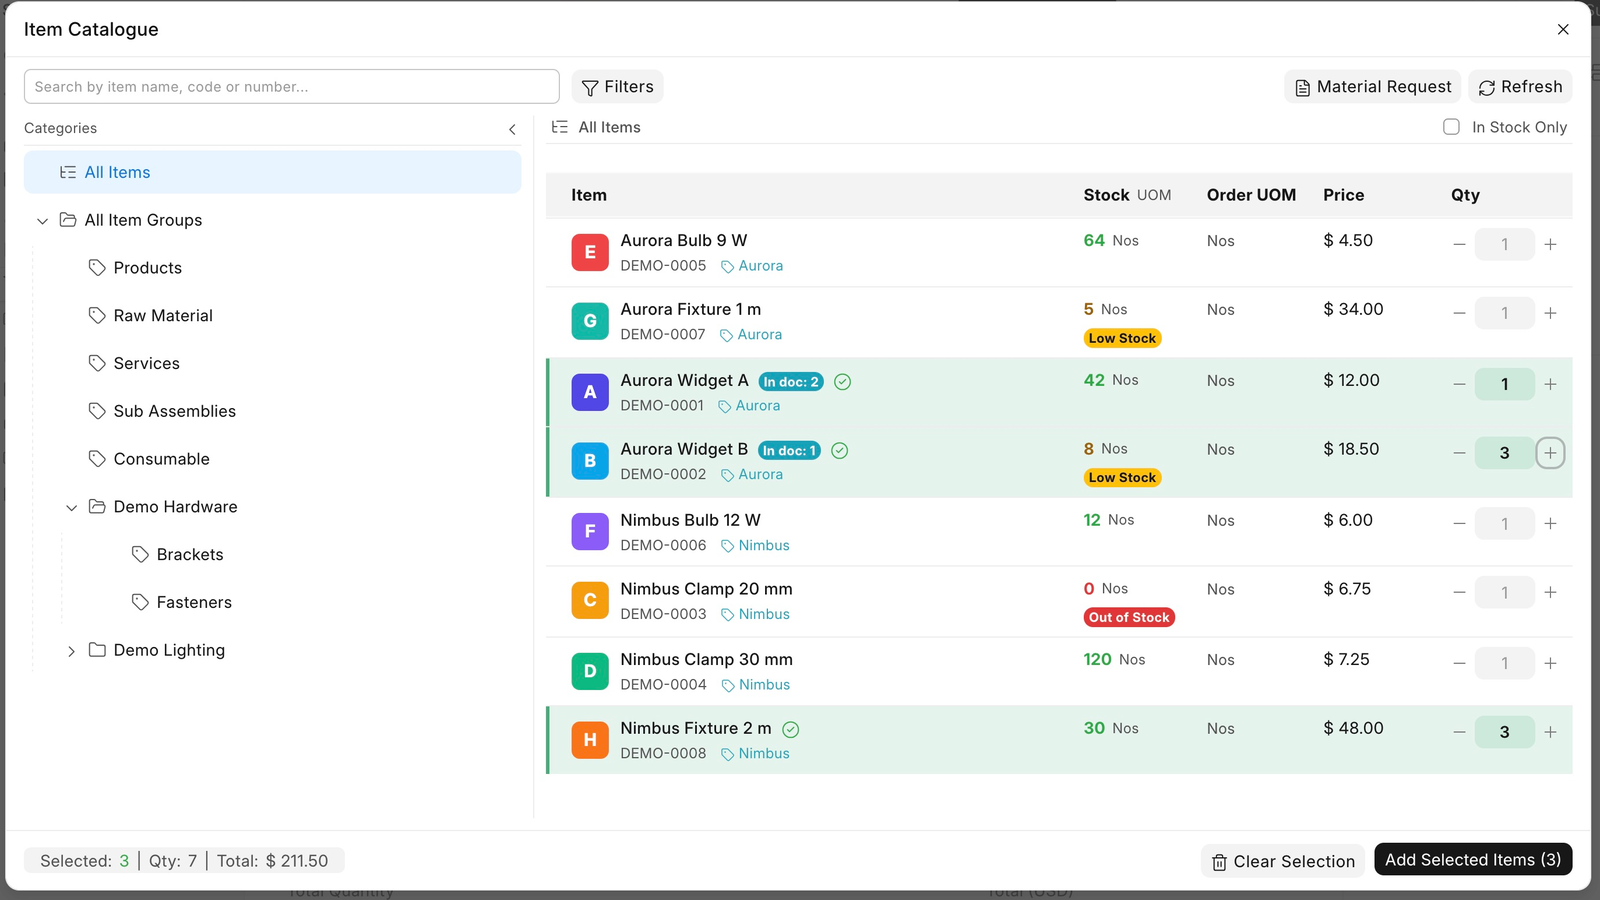
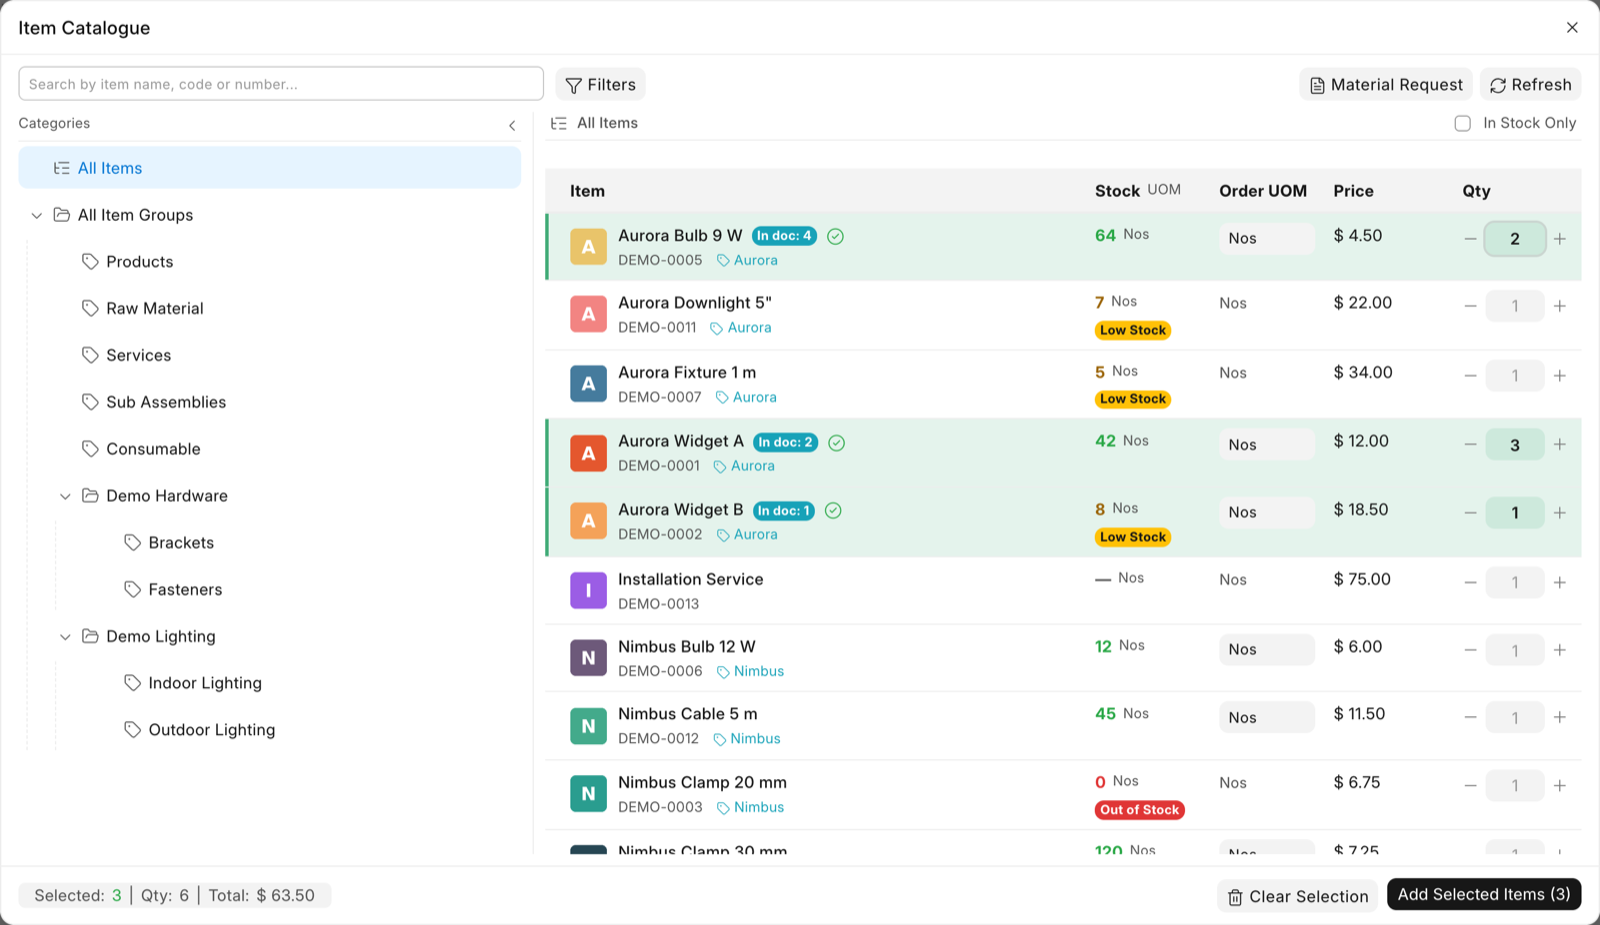
docs: refresh screenshots and add video walkthrough

Changed region(s): [[0.0, 0.0, 1.0, 1.0], [0.0938, 0.7778, 0.1875, 0.8089], [0.8438, 0.6844, 0.875, 0.7156]]

diff --git a/README.md b/README.md
@@ -144,13 +144,35 @@ business; that is one real-world use case, not a benchmark or a guarantee.
 
 ---
 
+## Video walkthrough
+
+[![Watch the ItemFlow Community walkthrough](docs/images/itemflow-community-video.jpg)](https://vimeo.com/1239202750)
+
+A 2:30 tour of the catalogue, document integration, inventory, filters, dark theme and mobile.
+
+---
+
 ## Screenshots
 
-Screenshots use demo data.
+Screenshots use demo data (Aurora Supply Co., USD).
 
 | Inventory Desk Page | Sales Order integration |
 |---|---|
 | ![ItemFlow inventory Desk Page](docs/images/itemflow-community-inventory.png) | ![Sales Order with Advanced Search and Review Items](docs/images/itemflow-community-sales-order.png) |
+
+### Filters and dark theme
+
+| Brand filter | Dark theme |
+|---|---|
+| ![ItemFlow catalogue filtered by brand](docs/images/itemflow-community-filters.png) | ![ItemFlow inventory in dark theme](docs/images/itemflow-community-dark.png) |
+
+### Mobile
+
+<p align="center">
+  <img src="docs/images/itemflow-community-mobile.png" width="300" alt="ItemFlow catalogue on mobile opened from a Sales Order">
+</p>
+
+Mobile: catalogue opened from a Sales Order with **Advanced Search**; items already in the document are marked **In doc**.
 
 ---
 
